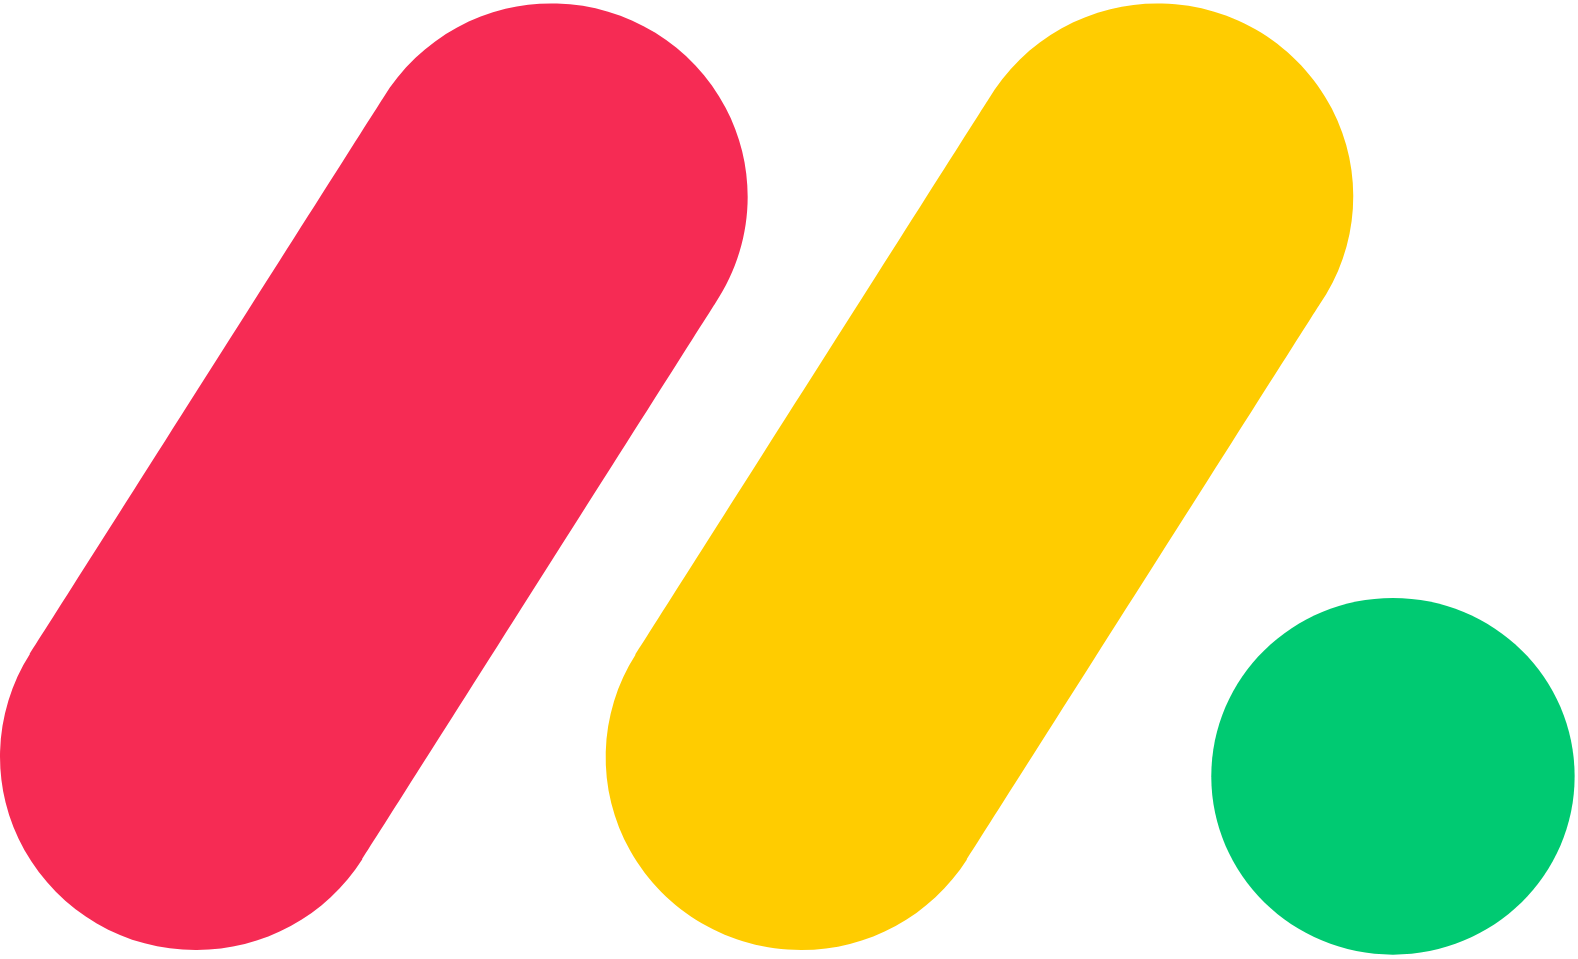
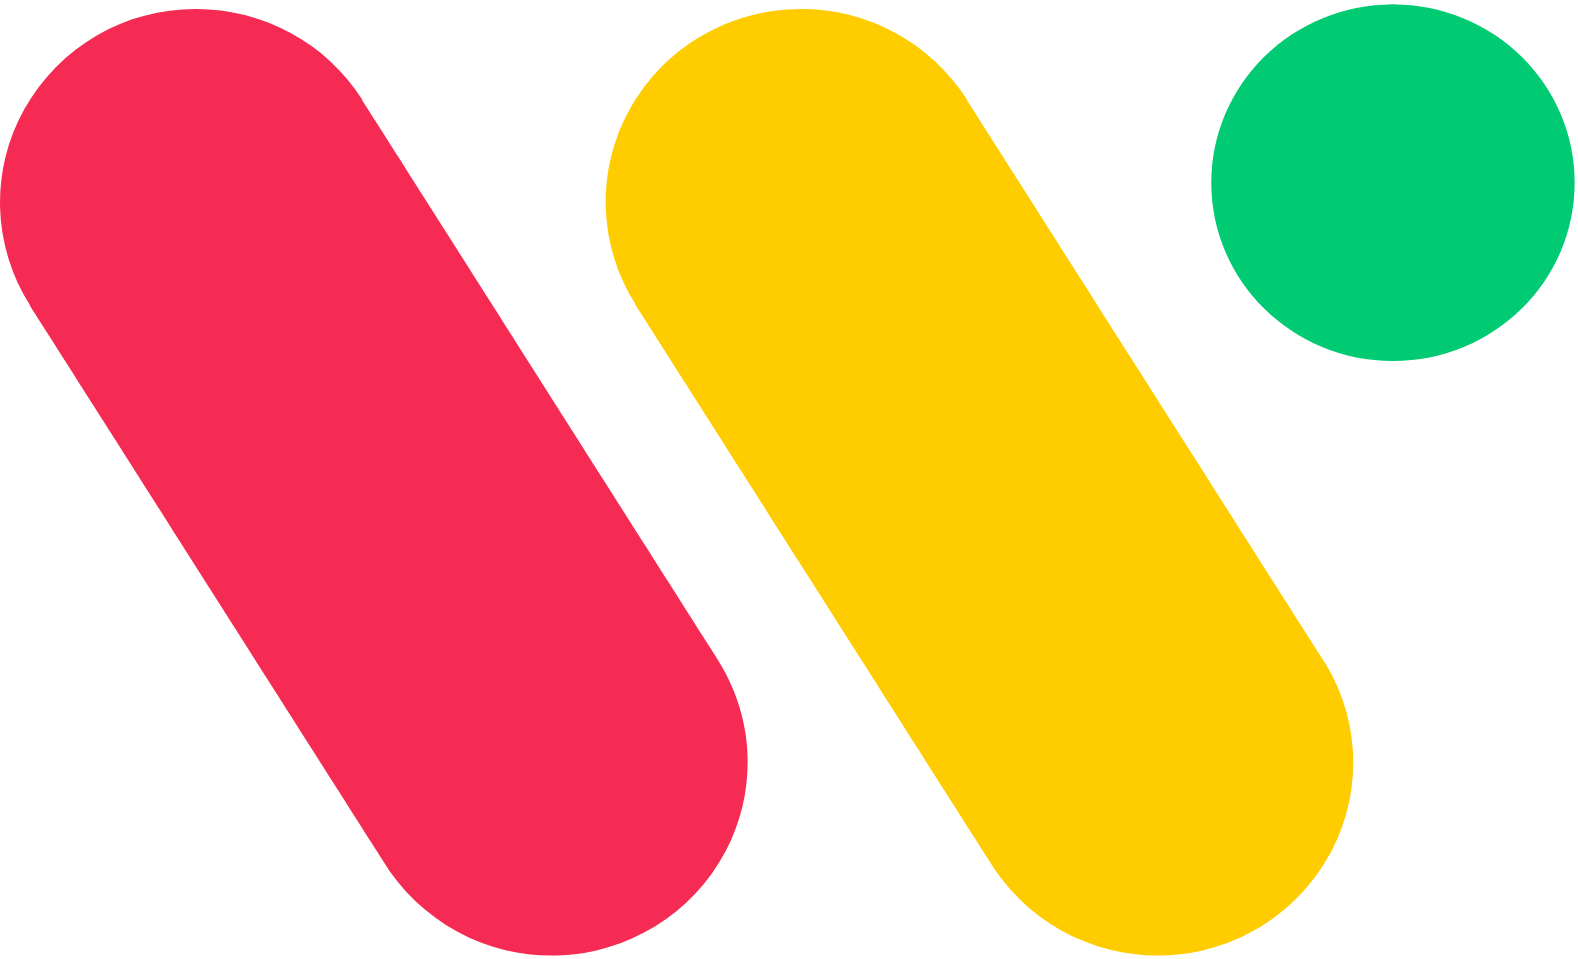
F/ReBranding/from monfiy to workit

diff --git a/src/services/board.service.js b/src/services/board.service.js
@@ -960,7 +960,7 @@ function _createUser() {
         // {
         //     "fullname": "Daniel Avishid",
         //     "username": "danielavishid",
-        //     "email": "danielavishid@mondify.com",
+        //     "email": "danielavishid@workit.com",
         //     "password": "danielavishid",
         //     "imgUrl": "https://hips.hearstapps.com/hmg-prod/images/happy-dog-outdoors-royalty-free-image-1652927740.jpg?crop=0.447xw:1.00xh;0.187xw,0&resize=980:*",
         //     // "mentions": [{ //optional
@@ -973,7 +973,7 @@ function _createUser() {
         // {
         //     "fullname": "Ofir Kaspi",
         //     "username": "ofirkaspi",
-        //     "email": "ofirkaspi@mondify.com",
+        //     "email": "ofirkaspi@workit.com",
         //     "password": "ofirkaspi",
         //     "imgUrl": "https://hips.hearstapps.com/hmg-prod/images/lonely-pug-royalty-free-image-1652974264.jpg?crop=0.447xw:1.00xh;0.355xw,0&resize=980:*",
         //     // "mentions": [{ //optional
@@ -986,7 +986,7 @@ function _createUser() {
         // {
         //     "fullname": "Carmel Amarillio",
         //     "username": "carmelamarillio",
-        //     "email": "carmelamarillio@mondify.com",
+        //     "email": "carmelamarillio@workit.com",
         //     "password": "carmelamarillio",
         //     "imgUrl": "https://hips.hearstapps.com/ghk.h-cdn.co/assets/16/08/gettyimages-464163411.jpg?crop=1.0xw:1xh;center,top&resize=980:*",
         //     // "mentions": [{ //optional

diff --git a/src/pages/Home.jsx b/src/pages/Home.jsx
@@ -86,7 +86,7 @@ export function Home() {
                     <div className="logo">
                         <img src={imgUrl} alt="" />
                         <span className="span">
-                            mondify
+                            workit
                         </span>
                     </div>
                     <div className="get-started">
@@ -104,7 +104,7 @@ export function Home() {
                             A platform built for a new way of working
                         </h1>
                     </div>
-                    <h2 className="sub-title">What would you like to manage with mondify Work OS?</h2>
+                    <h2 className="sub-title">What would you like to manage with workit Work OS?</h2>
                 </div>
                 <div className="call-to-action">
                     <div className="cards-container">
@@ -232,7 +232,7 @@ export function Home() {
                         <h2>
                             <br />
                             <br />
-                            <span>Deliver your best work </span><b>with mondify.com</b>
+                            <span>Deliver your best work </span><b>with workit.com</b>
                         </h2>
                         <div className="small-words">
                             <span>No credit card needed   <span className="icon">✦</span>    Unlimited time on Free plan</span>

diff --git a/index.html b/index.html
@@ -8,10 +8,8 @@
     href="https://fonts.googleapis.com/css2?family=Figtree:ital,wght@0,300;0,400;0,500;0,600;0,700;0,800;0,900;1,300;1,400;1,500;1,600;1,700;1,800;1,900&family=Poppins:ital,wght@0,100;0,200;0,300;0,400;0,500;0,600;0,700;0,800;0,900;1,100;1,200;1,300;1,400;1,500;1,600;1,700;1,800;1,900&display=swap"
     rel="stylesheet" />
   <script src="https://kit.fontawesome.com/3b18ac9277.js" crossorigin="anonymous"></script>
-  <link rel="shortcut icon"
-    href="https://cloudconceptgroup.com/wp-content/uploads/2019/12/cropped-favicon-monday5-192.png"
-    type="image/x-icon" />
-  <title>Mondify</title>
+  <link rel="shortcut icon" href="src/assets/img/favicon-workik.png" type="image/x-icon" />
+  <title>Workit</title>
 </head>
 
 <body>

diff --git a/src/cmps/AppHeader.jsx b/src/cmps/AppHeader.jsx
@@ -16,7 +16,7 @@ export function AppHeader({ user }) {
         <section className="app-header flex justify-between align-center">
             <section className="flex align-center">
                 <IconButton className="switcher-btn" icon={Switcher} kind={IconButton.kinds.TERTIARY} onClick={() => navigate('/#')} />
-                <p onClick={() => navigate('/board')} className="logo"><span>mondify</span> work management</p>
+                <p onClick={() => navigate('/board')} className="logo"><span>workit</span> work management</p>
             </section>
             <section className="flex justify-center align-center  gap4">
                 <IconButton

diff --git a/src/pages/Signup.jsx b/src/pages/Signup.jsx
@@ -8,7 +8,7 @@ export function Signup() {
             <div className="sign-up-container">
                 <div className="content">
                     <div className="heading">
-                        <h1 className="title">Welcome to mondify</h1>
+                        <h1 className="title">Welcome to workit</h1>
                         <h2 className="sub-title">Get started - it's free. No credit card needed.</h2>
                     </div>
                     <div className="sign-up-fields">

diff --git a/src/assets/styles/cmps/AppHeader.scss b/src/assets/styles/cmps/AppHeader.scss
@@ -54,6 +54,7 @@
         }
 
         .logo-img {
+            transform: scaleX(-1) rotate(180deg);
             width: 24px;
             height: 24px;
         }
